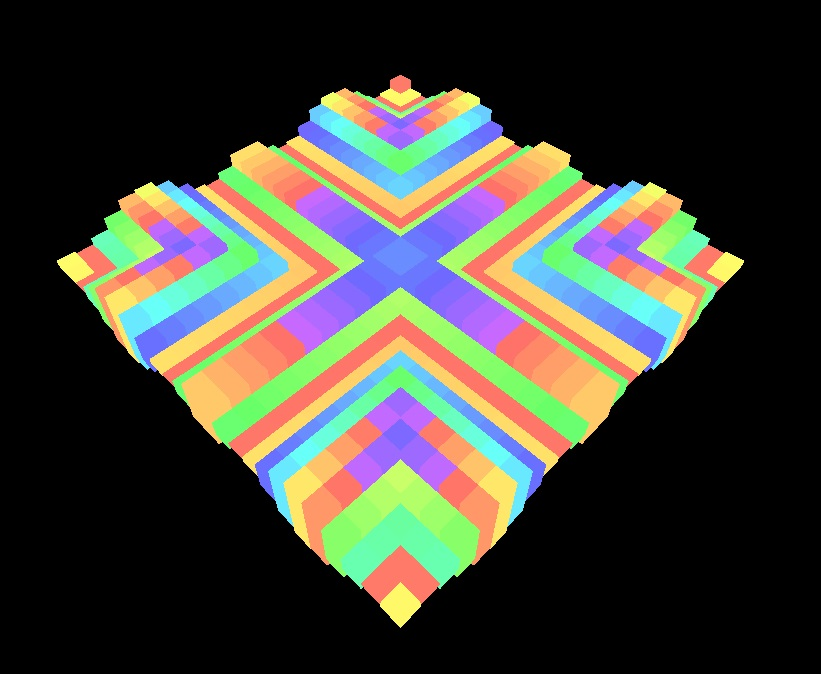
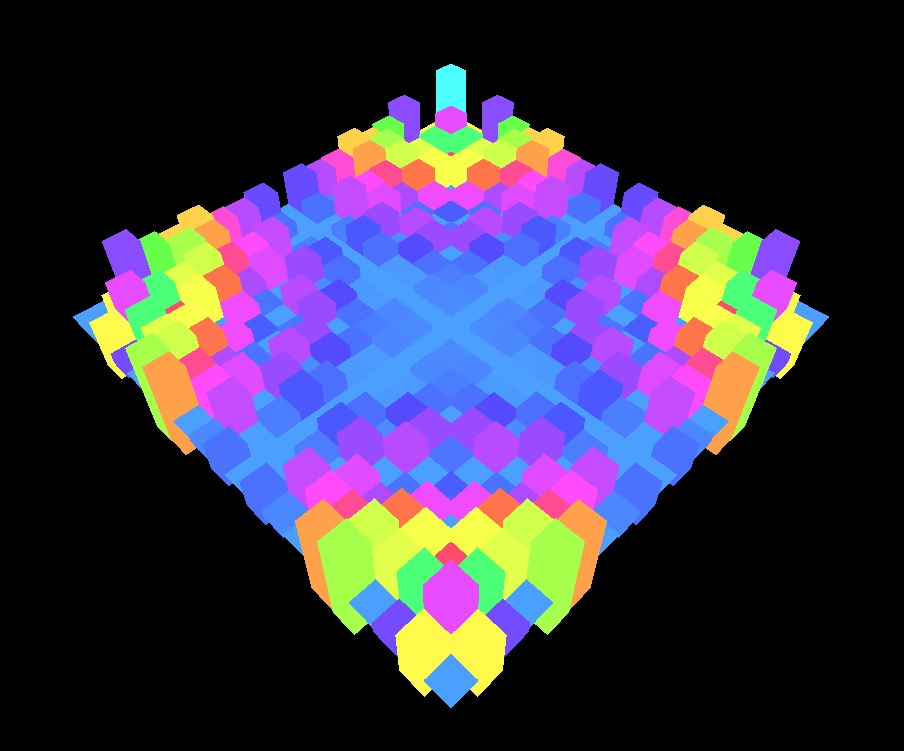
whoa dude

diff --git a/posts/boxdream/sketch.js b/posts/boxdream/sketch.js
@@ -1,13 +1,13 @@
 function setup() {
 	createCanvas(windowWidth, windowHeight, WEBGL);
 	colorMode(HSB, 255,255,255,255);
-	easycam = new Dw.EasyCam(this._renderer, {distance : windowWidth});
+	easycam = new Dw.EasyCam(this._renderer, {distance : windowWidth*1.5});
 }
 
 function draw(){
   background(0);
   var w = windowWidth;
-  var scl = w/23;
+  var scl = w/20;
 
   rotateX(PI/4);
   rotateZ(PI/4);
@@ -23,31 +23,19 @@ function draw(){
 	//which is useful for finding your distance from it as well as drawing it in 3D
 	for(var x = -w/2; x < w/2; x+= scl){
 		for(var y = -w/2; y < w/2; y+= scl){
-		  //for every box on the plane: we'll have to find how tall to make it and what color to give it
-			//using only distance and time to inform these properties gets kind of boring as you can see in the Honeycomb example
-			//so this'll take the smaller of the two distances from center to mix things up a bit
-			var md  = min(abs(x), abs(y)); //md(minimumDistance) is a number between 0 and w/2 that is closely related to the distance of the box from the center
-			var d = map(abs(x)+abs(y), 0, w, 0, 1); //d(distance) is the actual distance from center but mapped to a range from 0 to 1
 
-			var td = .5+.5*sin(radians(md-frameCount)); //td (timeDistance) is also a number between 0 and 1 that is related to the minimumDistance and time (frameCount)
-			//md-frameCount is the main part of finding this variable
-			//the radians() just make it a lot smaller so that the changes are smoother
-			//there's sine involved because I want the changes that time supplies to loop forever between known values
-			// and .5+.5* is to map the output of the sine function which ranges from -1 to 1 to what I actually want: 0 - 1
+			var md  = map(min(abs(x), abs(y)), 0, w/2, 0, 1);
+			var d = map(abs(x)+abs(y), 0, w, 0, 2);
+			var td = .5+.5*sin(radians(100000*d*md-frameCount*4));
+	    var zscl = 3*scl*td*d;
+			var h = map(d*md*td,0,1,150,400)%255;
 
-	    var zscl = 4*scl*td; //zscl is the height of each individual box - I take the timeDistance and inform the height with it
-  		var h = map(d*td,0,1,0,512)%255; //h (hue) is found by multiplying d and td.
-			//seeing as d and td are both in the 0-1 range the multiplied values will also never exit the 0-1 range
-			//this fact allows me to map this to any other range I want really easily.
-			//I map it to a range of 0-512 just because I played with it for a while and this looked pretty I guess
-			//%200 means there's a hue range between 200 and 255 I'm not interested, I'd otherwise have to say %255 here to stay in the hue range
-			//512 and 200 are not set in stone, feel free to play with them to get different gradients, for example I like the final hue range between 130 and 200 a lot for this sketch too
 
 			//so now that we know everything about this box we're about to draw, let's draw it
 			push(); //push a new matrix on the matrix stack because I want to be able to go back where I came from really easily
 	    translate(x,y); //move the matrix to my box position
 	    noStroke(); //outlines slow this down a lot, we don't need them anyhow
-	    fill(h, 175, 255); //fill the boxes with a color of the hue, desaturate it a tiny bit (150) and give it full brightness (255)
+	    fill(h, 180, 255); //fill the boxes with a color of the hue, desaturate it a tiny bit (150) and give it full brightness (255)
 	    box(scl, scl, zscl); //draw the box, two of its sides will always be the same, only the height changes
 			pop(); //return to the original matrix. this would also work without push and pop by calling translate(-x,-y) here but whatevs, push and pop are really comfy to use
 
